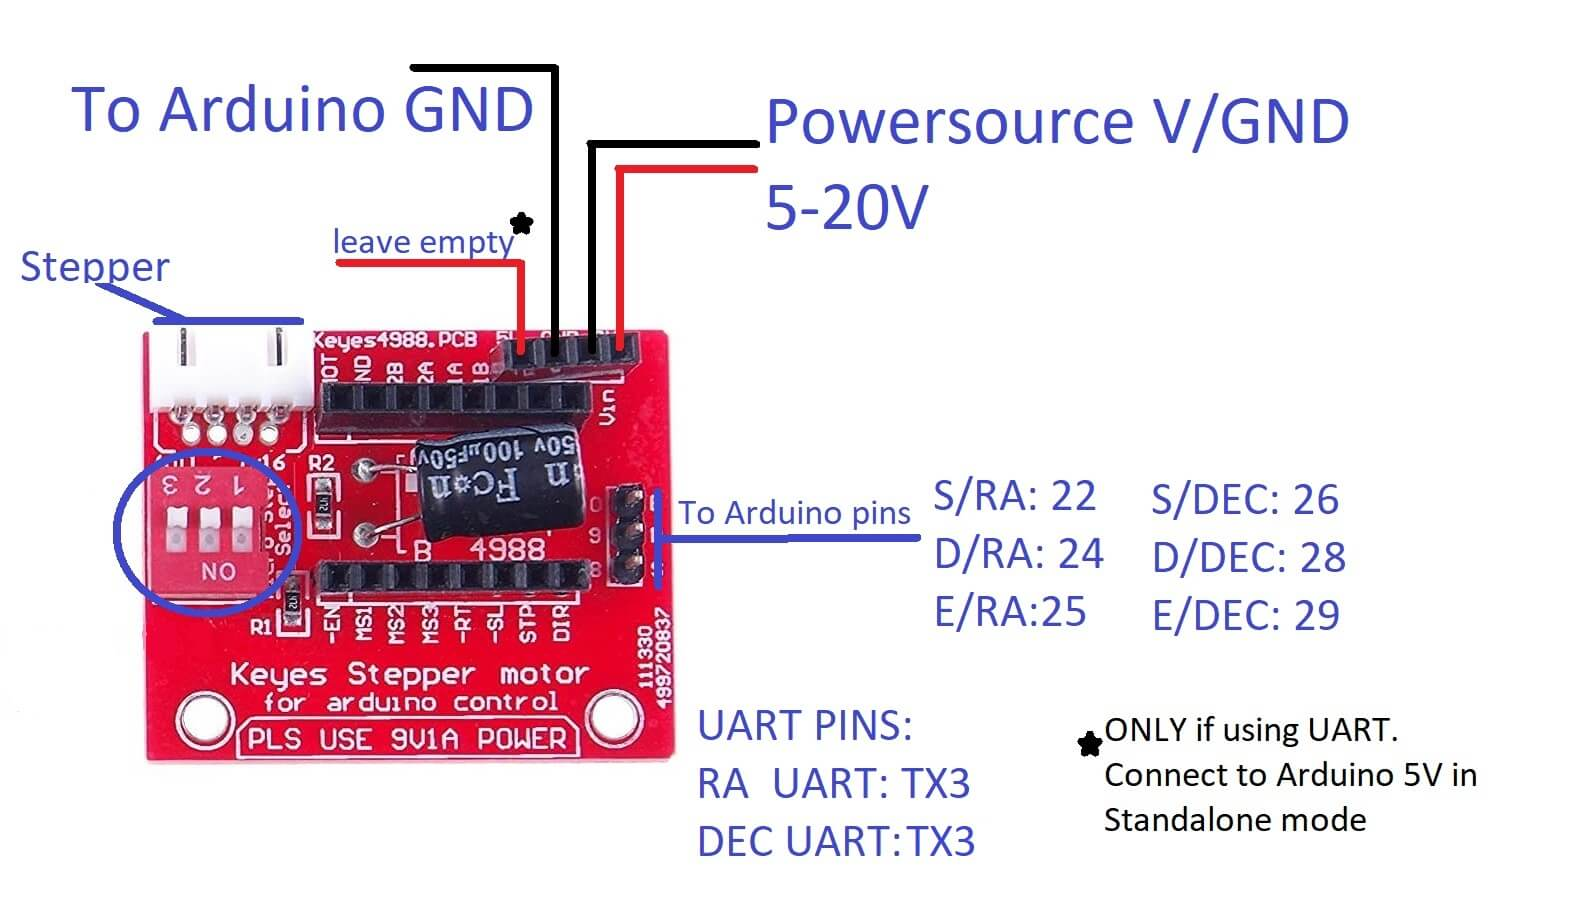
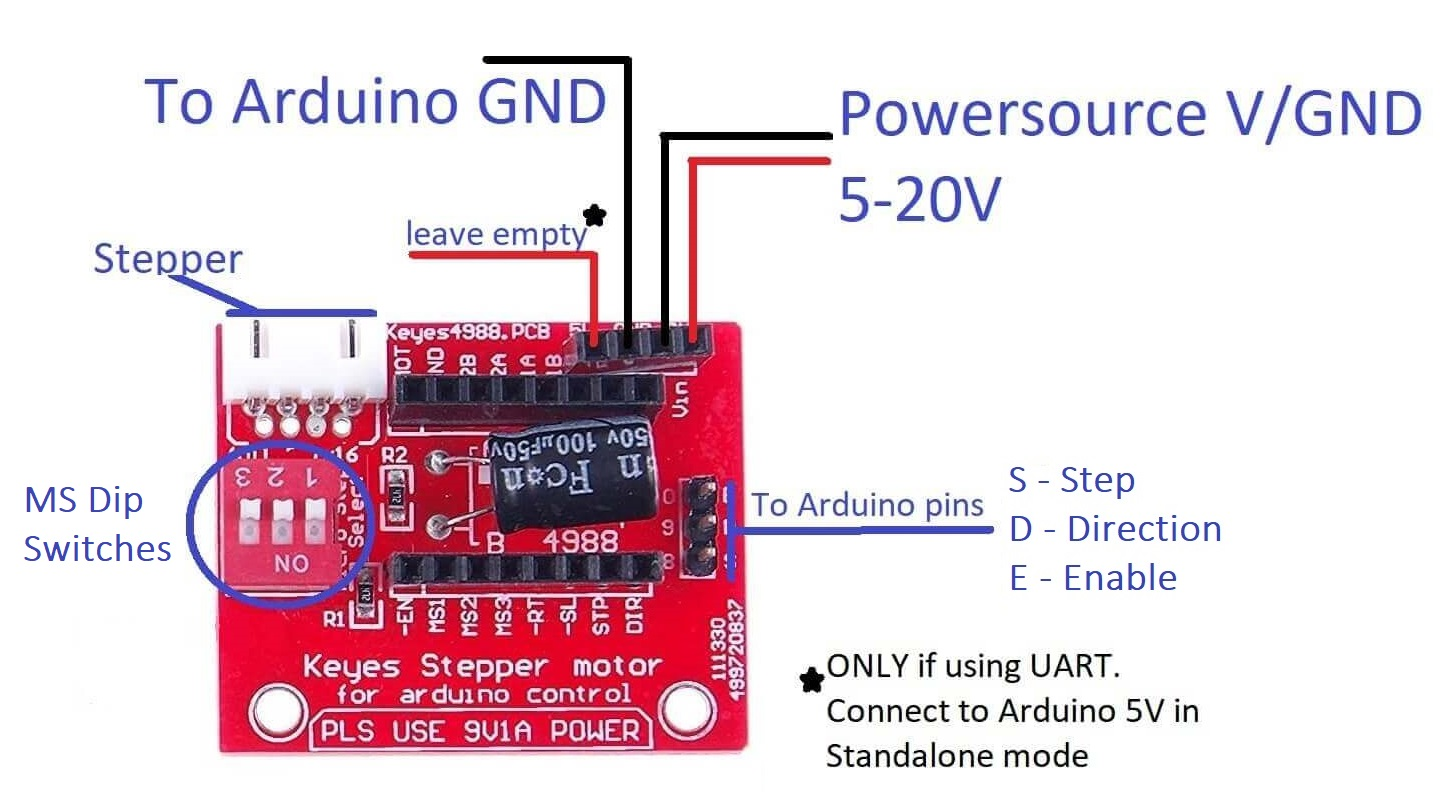
Update NEMA Wiring Diagram
Added a table underneath the wiring diagram with pin numbers rather than in the image itself. It'll make it easier to change in the future without having to modify the image.

diff --git a/docs/assembly/wiring/wiring_NEMA.md b/docs/assembly/wiring/wiring_NEMA.md
@@ -18,6 +18,12 @@ heading_anchors: true
 
 <img src="../2209_pins.jpg" width="100%">
 
+Wire|Pin||Wire|Pin
+-|-|-|-|-
+RA Step|22||DEC Step|23
+RA Direction|24||DEC Direction|25
+RA Enable|26||DEC Enable|27
+RA UART|TX3||DEC UART|TX3
 ------------------------
 
 For UART, the DEC driver board needs to have MS1 enabled, do this by switching the '1' button to ON. All others, also on the RA driver have to be OFF
